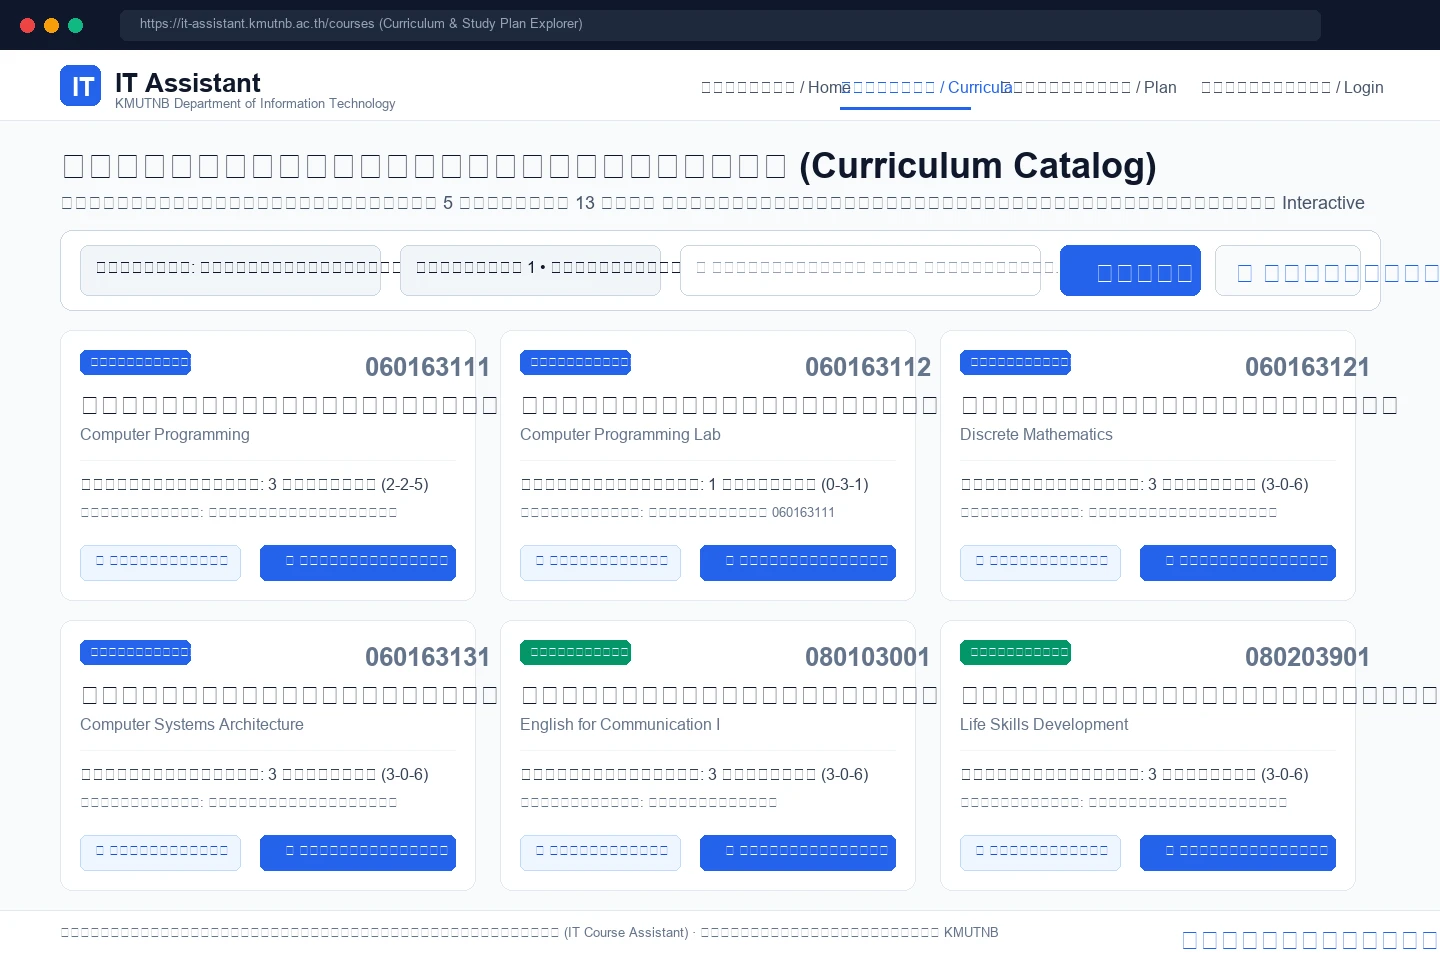
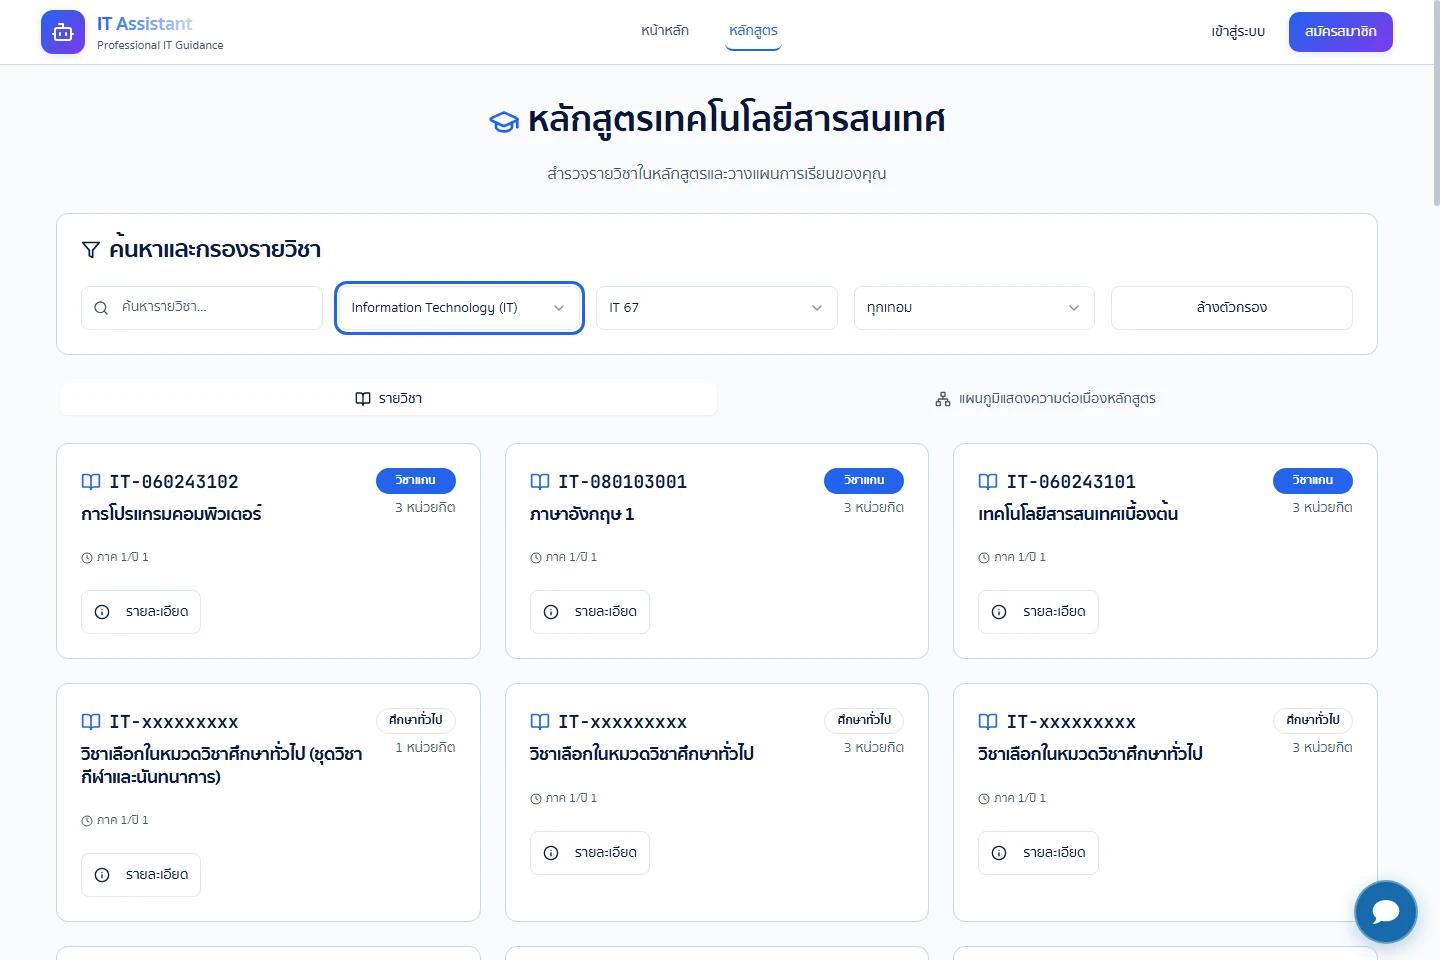
fix: replace hero course preview image with authentic thai font capture

diff --git a/src/components/home/HomeOverview.tsx b/src/components/home/HomeOverview.tsx
@@ -9,7 +9,7 @@ const HomeOverview = () => (
       className="h-auto w-full rounded-xl border border-border shadow-sm"
     />
     <figcaption className="mt-3 text-sm text-muted-foreground">
-      ตัวอย่างหน้าจอหลักสูตรจากข้อมูลทดสอบ
+      ตัวอย่างหน้าจอค้นหาและสำรวจรายวิชาจากระบบจริง
     </figcaption>
   </figure>
 );

diff --git a/README.md b/README.md
@@ -35,6 +35,14 @@
 
 ตัวระบบถูกสร้างขึ้นบนรากฐานภาษาโมเดลโดเมน [CONTEXT.md](CONTEXT.md) ตามมาตรฐานวิศวกรรมซอฟต์แวร์ ควบคุมการทำงานด้วยระเบียบหน่วยกิตและภาวะวิทยาทัณฑ์ (Academic Standing Rules) พร้อมอินเทอร์เฟซระดับพรีเมียมโทนสีกรมท่า น้ำเงิน และขาว (KMUTNB Institutional Palette) ใช้งานได้อย่างลื่นไหลบนทุกขนาดหน้าจอ
 
+<div align="center">
+
+<img src="public/images/academic-course-preview.webp" alt="ตัวอย่างหน้าจอสำรวจและค้นหาข้อมูลหลักสูตร IT Assistant" width="90%" style="border-radius: 12px; border: 1px solid rgba(11, 22, 55, 0.12); box-shadow: 0 8px 24px rgba(11, 22, 55, 0.12);" />
+
+*ตัวอย่างหน้าจอสำรวจและค้นหารายวิชาในหลักสูตร (Curriculum Catalog) แสดงผลข้อมูลจริงพร้อมฟอนต์ภาษาไทยคมชัด*
+
+</div>
+
 ---
 
 ## สถาปัตยกรรมระบบ
